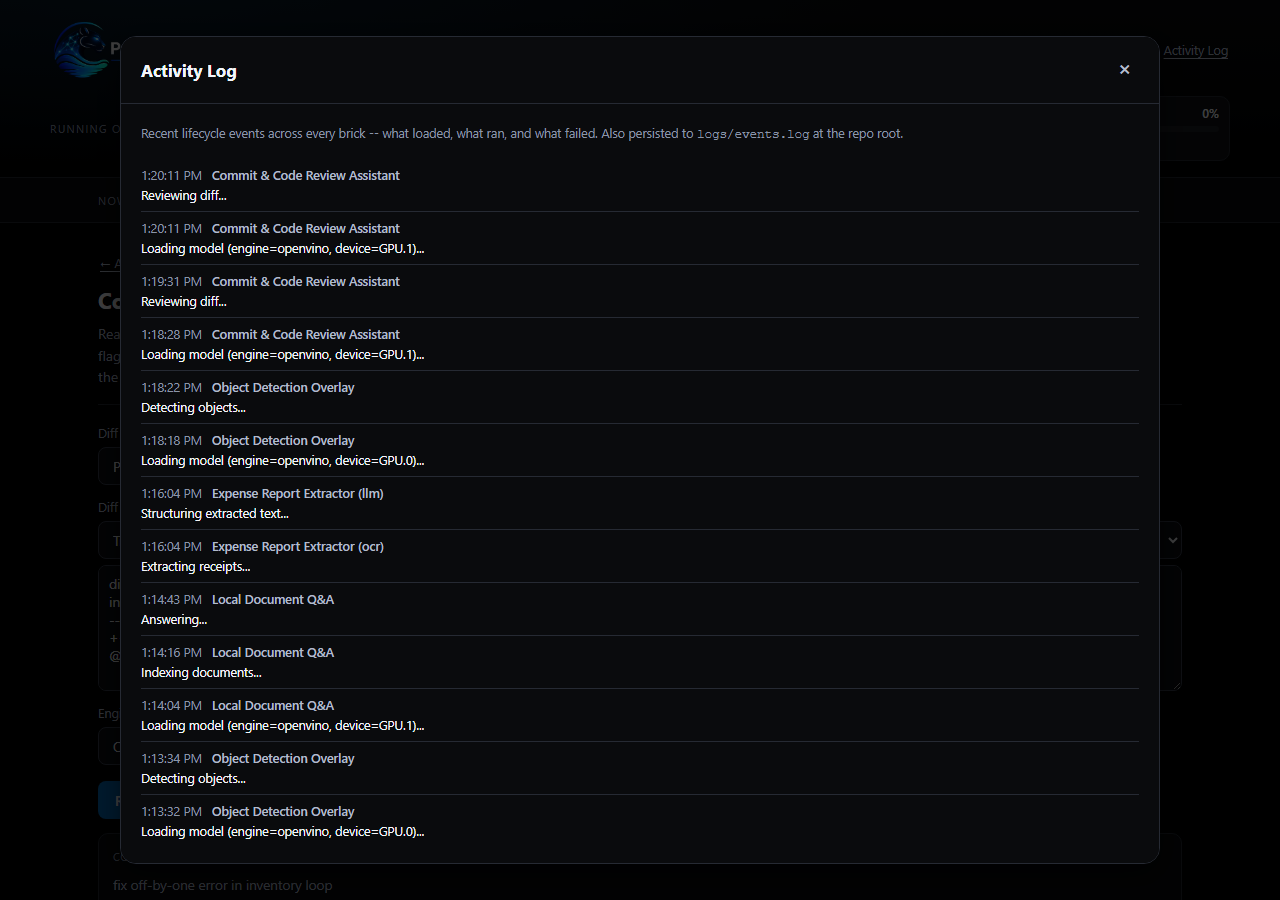
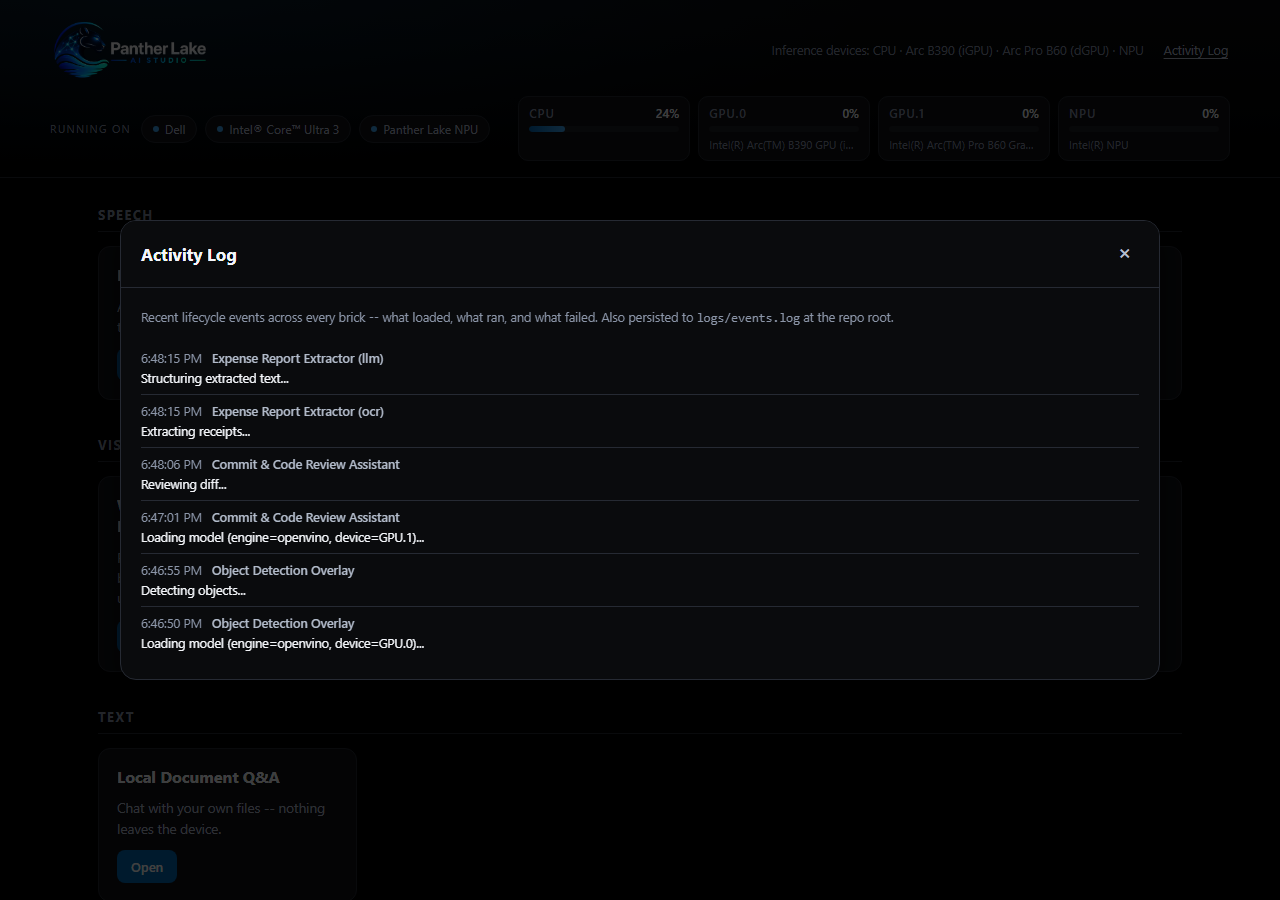
Reshape the README around the current UI, with fresh screenshots
The README still described the launcher as it was before the panel
rewrite, and its screenshots predated most of today. Rebuilt around what
the app actually is now.

Install got the most attention, since a colleague had trouble reproducing
it: start_launcher.bat -- which has been in the repo the whole time and
was never mentioned -- is now the double-click path, and a collapsible
block explains what `--extra openvino` actually does, that a later plain
`uv sync` silently removes it again, that models download on first use
(~100 MB to ~15 GB) rather than at install, and that the suite runs fine
with no Intel accelerator at all.

New "If something goes wrong" section covering the three things that have
actually bitten us: the port-already-in-use error when a second launcher
is started, a first run that looks stuck but is downloading, and a tab
held across an update.

Screenshots recaptured against the current build: the home grid with the
Now running strip, two demos running at once on both GPUs, the Activity
Log, and a new one of expense-extract with OCR on the CPU and the LLM on
GPU.1 -- both gauges lit and labelled by stage, next to three receipts it
just structured. That last one shows the concurrency claim rather than
asserting it, so the demo tables now say "two chips, at once" and point at
it. The old code-review screenshot is dropped; nothing referenced it any
more.

Also documents what today's debugging turned up: the two OpenVINO
[…]

diff --git a/README.md b/README.md
@@ -8,6 +8,7 @@
   <a href="https://docs.openvino.ai/"><img src="https://img.shields.io/badge/runtime-OpenVINO-8A2BE2" alt="OpenVINO" /></a>
   <img src="https://img.shields.io/badge/cloud%20calls-zero-4ade80" alt="Cloud calls: zero" />
   <img src="https://img.shields.io/badge/platform-Windows-0078D6" alt="Platform: Windows" />
+  <a href="https://github.com/Arnaud-Intel/ptl-ai-studio/actions/workflows/test.yml"><img src="https://github.com/Arnaud-Intel/ptl-ai-studio/actions/workflows/test.yml/badge.svg" alt="Tests" /></a>
 </p>
 
 **A local AI Studio for Intel Panther Lake -- thirteen on-device AI demos,
@@ -15,20 +16,20 @@ one launcher, zero cloud calls.**
 
 Speech translation. A voice assistant that talks back in your own voice.
 Live meeting notes. Object detection. Receipt-to-spreadsheet automation
-that runs your NPU and GPU *at the same time*. Every demo here runs
-entirely on the machine in front of you -- no API key, no network call,
-no data that leaves the device -- and every one of them can point
-directly at your Intel CPU, integrated GPU, or NPU and show you, on a
-live gauge, exactly which chip is doing the work.
+that runs your CPU and GPU *at the same time*. Every demo here runs
+entirely on the machine in front of you -- no API key, no network call, no
+data that leaves the device -- and every one can be pointed at your Intel
+CPU, integrated GPU, or NPU and show you, on a live gauge, exactly which
+chip is doing the work.
 
 This isn't a slide deck about on-device AI. It's thirteen working
 applications that prove it.
 
-## See it in 60 seconds
+## Get it running
 
-Only real prerequisite is [`uv`](https://docs.astral.sh/uv/getting-started/installation/)
-itself -- it fetches a compatible Python automatically, no separate
-Python install needed:
+The only real prerequisite is [`uv`](https://docs.astral.sh/uv/getting-started/installation/)
+-- it fetches a compatible Python itself, so there's no separate Python
+install to get right:
 
 ```bash
 git clone https://github.com/Arnaud-Intel/ptl-ai-studio.git
@@ -37,32 +38,61 @@ uv sync --extra openvino
 uv run panther-lake-launcher
 ```
 
-A local web UI opens at `http://127.0.0.1:8765`, demos grouped by the
-kind of work they do: open one and press Start -- it defaults to OpenVINO
-on your NPU/iGPU/GPU when available, portable CPU otherwise -- and the
-status line tells you what's actually happening (downloading a model the
-first time, loading it from disk after, or running), instead of a static
-"please wait." Then watch the CPU/GPU/NPU gauges in the header light up
-with *which demo is using which chip, right now*. If your machine has
-more than one GPU (say, an iGPU plus a discrete Arc card), each gets its
-own gauge, tracked independently. That live attribution is real, not
-decorative: it comes from the exact device string each demo handed the
-inference runtime, not a guess.
+That opens `http://127.0.0.1:8765` in your browser. On Windows you can
+also just **double-click `start_launcher.bat`** -- same thing, in a window
+you can leave open and close to stop the server.
+
+<details>
+<summary><b>What you need, and what the flags mean</b></summary>
+
+- **`uv sync`** installs every demo with its portable (CPU) engine.
+  **`uv sync --extra openvino`** additionally installs the OpenVINO engines
+  -- the ones that can target your iGPU and NPU. Use the `--extra` form on
+  Intel hardware; plain `uv sync` still gives you a fully working suite on
+  CPU. (`uv sync` makes the environment match exactly what you ask for, so
+  a later plain `uv sync` *removes* the OpenVINO extras again -- keep
+  passing `--extra openvino`.)
+- **Windows 11** for the full experience: the CPU/GPU/NPU gauges read
+  Windows' own performance counters, and "capture system audio" uses WASAPI
+  loopback. The demos themselves run elsewhere; the gauges just report
+  `N/A`.
+- **Models download on first use**, not at install: from ~100 MB for the
+  small speech models up to ~15 GB for the two coding demos. The status
+  line tells you when it's downloading rather than leaving you guessing,
+  and every run after that is fully offline.
+- **No Intel accelerator?** Everything still runs -- each demo falls back
+  to its portable CPU engine, and the OpenVINO option is disabled in the UI
+  with the reason shown.
+
+</details>
 
 <p align="center">
-  <img src="docs/screenshot-home.png" alt="Panther Lake AI Studio launcher: the header telemetry gauges, the Now running strip, and the demo cards grouped by category" width="820" />
+  <img src="docs/screenshot-home.png" alt="The launcher's home grid: header telemetry gauges for CPU, both GPUs and the NPU, a Now running strip, and demo cards grouped by category" width="820" />
 </p>
 
-Leaving a demo doesn't stop it. Start object detection on the iGPU, go
-back to the grid, open Document Q&A on the discrete GPU -- the "Now
-running" strip under the header keeps both in view wherever you are, each
-gauge names the demo driving it, and reopening a demo picks up exactly
-where it is (the video reattaches, an index built five minutes ago is
-still there). Two demos, two chips, one glance:
+## What it's like to use
+
+Open a demo and press Start. It defaults to OpenVINO on your NPU/iGPU/GPU
+when one is available and portable CPU otherwise, and the status line says
+what is *actually* happening -- downloading a model the first time, loading
+it from disk after, running, or stopping -- instead of a static "please
+wait".
+
+**Leaving a demo doesn't stop it.** Start object detection on the iGPU, go
+back to the grid, open the code review assistant on the discrete GPU: the
+"Now running" strip under the header keeps both in view wherever you are,
+each gauge names the demo driving it, and reopening a demo picks up exactly
+where it is -- the video reattaches, an index built five minutes ago is
+still there.
 
 <p align="center">
-  <img src="docs/screenshot-running.png" alt="Two demos running at once: the Now running strip lists Object Detection on GPU.0 and the Code Review Assistant on GPU.1, and both GPU gauges are lit and labeled" width="820" />
+  <img src="docs/screenshot-running.png" alt="Two demos at once: the Now running strip lists Object Detection Overlay running on GPU.0 and the Commit and Code Review Assistant loading on GPU.1, with both GPU gauges lit and labelled" width="820" />
 </p>
+
+That attribution is real, not decorative: it comes from the exact device
+string each demo handed the inference runtime, not a guess. A demo left on
+`AUTO` lights no gauge at all rather than claim a chip it might not be
+using.
 
 ## The demo suite
 
@@ -81,8 +111,8 @@ still there). Two demos, two chips, one glance:
 | --- | --- | --- |
 | **Webcam Background Effects** | Real-time background blur or replacement, no video ever leaves the machine | CPU / NPU / GPU |
 | **Object Detection Overlay** | Live labeled bounding boxes over a webcam or screen feed | CPU / NPU / GPU |
-| **Screen / Image Text Extraction** | Pull text out of a screenshot or photo, with optional on-device translation | CPU / GPU |
-| **Smart City Monitor** | Count pedestrians/cars/bikes per minute across multiple video files -- each pinnable to its own chip | CPU / NPU / GPU **each**, at once |
+| **Screen / Image Text Extraction** | Pull text out of a screenshot or photo, with optional on-device translation | CPU / GPU † |
+| **Smart City Monitor** | Count pedestrians/cars/bikes per minute across several video files -- each pinnable to its own chip | CPU / NPU / GPU **each**, at once |
 
 ### Text
 
@@ -94,83 +124,87 @@ still there). Two demos, two chips, one glance:
 
 | Demo | What it does | Runs on |
 | --- | --- | --- |
-| **Expense Report Extractor** | Photograph a folder of receipts, get a structured CSV -- OCR and the LLM run *concurrently* on two different chips | GPU **+** NPU, at once |
-| **Local Screen Memory** | Continuously indexes your own screen so you can semantically search it later -- OCR and embedding run *concurrently*, the same way | GPU **+** NPU, at once |
-| **Commit & Code Review Assistant** | Turn a git diff into a commit message and review notes, entirely locally | CPU / GPU\* |
-| **HTML Creator** | Describe a page or point at a folder of documents, get one self-contained HTML file back | CPU / GPU\* |
+| **Expense Report Extractor** | Point it at a folder of receipts, get structured expense lines -- OCR and the LLM run *concurrently* on two different chips | two chips, at once |
+| **Local Screen Memory** | Continuously indexes your own screen so you can semantically search it later -- OCR and embedding run *concurrently*, the same way | two chips, at once |
+| **Commit & Code Review Assistant** | Turn a git diff into a commit message and review notes, entirely locally | CPU / GPU ‡ |
+| **HTML Creator** | Describe a page, or point at a folder of documents, and get one self-contained HTML file back | CPU / GPU ‡ |
 
-*Every "Runs on" cell is real, tested hardware routing -- not a spec
-sheet claim. `expense-extract` and `smart-recall` are the showcase: each
-runs OCR on one chip while a second model (an LLM, or an embedder) works
-on a *different* chip at the same time -- both gauges lit simultaneously,
-proof captured live from the telemetry API during testing, not claimed
-from a spec sheet. `smart-city-monitor` generalizes the same idea to N:
-pin each video feed to its own chip (say, one feed on the NPU, another on
-a GPU) and every one it's using lights up at once, correctly attributed
-per feed. \*These two ask for a 30B-parameter coding model on
-the OpenVINO engine (~15GB) -- too large for an iGPU's or NPU's memory
-budget, so that path needs a real **discrete** GPU with its own VRAM
-(flagged with an amber "Discrete GPU" tag in the launcher). The portable
-engine still runs everywhere, with a much smaller model.*
+Every "Runs on" cell is tested hardware routing, not a spec-sheet claim.
+
+† Screen / Image Text Extraction's OpenVINO engine is a 7B
+vision-language model. Its NPU compile fails on this hardware, so the NPU
+is offered but disabled with the reason shown, rather than left to fail
+with a compiler error -- see [`screen-ocr`'s README](bricks/screen-ocr/README.md).
+
+‡ These two ask for a 30B-parameter coding model on the OpenVINO engine
+(~15 GB) -- too large for an iGPU's or NPU's memory budget, so that path
+wants a real **discrete** GPU with its own VRAM (flagged with an amber
+"Discrete GPU" tag in the launcher). The portable engine still runs
+everywhere, with a much smaller model.
+
+### The concurrency showcase
+
+`expense-extract` and `smart-recall` are the ones to watch: each runs OCR
+on one chip while a second model -- an LLM, or an embedder -- works on a
+*different* chip at the same time, both gauges lit and labelled with the
+stage driving them. `smart-city-monitor` generalises the same idea to N:
+pin each video feed to its own chip and every one it's using lights up at
+once, correctly attributed per feed.
 
 <p align="center">
-  <img src="docs/screenshot-code-review.png" alt="Commit & Code Review Assistant showing a generated commit message and review notes, with the GPU.1 telemetry gauge lit up and labeled with the demo's name" width="820" />
+  <img src="docs/screenshot-expense-extract.png" alt="Expense Report Extractor: OCR on the CPU and the LLM on GPU.1, both gauges lit and labelled with their stage, and three receipts structured into vendor, date, amount and category" width="820" />
 </p>
 
-Every content-hungry demo also ships with a "Try a sample" picker --
-named example prompts, diffs, and questions, a fictional company's
-documents (`sample-data/`) for `doc-qa` and `html-creator`'s document
-mode, and three synthetic receipts for `expense-extract` -- so there's
-always something real to press Start on without hunting for your own
-files first.
+Every content-hungry demo ships with a "Try a sample" picker -- named
+example prompts, diffs and questions, a fictional company's documents
+(`sample-data/`) for `doc-qa` and `html-creator`'s document mode, and three
+synthetic receipts for `expense-extract` -- so there's always something
+real to press Start on without hunting for your own files first.
 
-Also on the roadmap and already visible as "Coming soon" cards in the
-launcher: an inbox triage & draft assistant, and live noise suppression
--- the suite is built to keep growing without touching what already
-ships.
+Also on the roadmap and already visible as "Coming soon" cards: an inbox
+triage & draft assistant, and live noise suppression.
 
 ## Why this is worth a look
 
 - **Genuine hardware routing, not a toggle that does nothing.** Every
   switchable-backend demo runs [OpenVINO](https://docs.openvino.ai/) for
-  the Intel path, because `faster-whisper`, PyTorch, and ONNX Runtime's
+  the Intel path, because `faster-whisper`, PyTorch and ONNX Runtime's
   default provider are CPU/CUDA-only -- they physically cannot target an
   NPU or iGPU. OpenVINO is what actually exposes `CPU` / `GPU` / `NPU` as
-  selectable devices on a chip like Panther Lake, which is the entire
-  point of demonstrating *local* AI *on this hardware*, not just on a
-  laptop.
+  selectable devices on a chip like Panther Lake, which is the whole point
+  of demonstrating *local* AI *on this hardware*.
 - **Composable, not copy-pasted.** Thirteen demos, and the newest ones
-  barely add code: `meeting-notes` has no transcriber or LLM of its own
-  -- it composes `live-translation` and `doc-qa` directly.
-  `code-review-assist` and `html-creator` add zero new model code either,
-  each composing `doc-qa`'s LLM for a different task. `smart-city-monitor`
-  has no detection model of its own either -- it composes
-  `object-detection`'s, adding only tracking, counting, and the ability to
-  run several feeds at once. `voice-assistant` composes three bricks and
-  adds exactly one new model (wake-word detection). Shared capture, VAD,
-  and device-discovery code lives in one `core` package every brick
-  depends on.
-- **Verified against real hardware, not assumed.** This suite was built
-  and tested against an actual Intel NPU and Arc GPU, end to end, down to
-  finding (and routing around) a real OpenVINO NPU compiler limitation on
-  a 7B vision-language model -- documented, not hidden, in
-  [`screen-ocr`'s README](bricks/screen-ocr/README.md).
-- **Know what's happening, not just that it's "loading."** First-time
-  model loads can take a minute or more, so the launcher tracks each
-  demo's real lifecycle -- downloading, loading, running, or error -- and
-  keeps a persisted Activity Log of what happened, reviewable from the
-  header at any time.
+  barely add code: `meeting-notes` has no transcriber or LLM of its own --
+  it composes `live-translation` and `doc-qa` directly.
+  `code-review-assist` and `html-creator` add no model code either, each
+  composing `doc-qa`'s LLM for a different task. `smart-city-monitor`
+  composes `object-detection`'s detector, adding only tracking, counting
+  and multi-feed. `voice-assistant` composes three bricks and adds exactly
+  one new model (wake-word detection). Shared capture, voice-activity
+  detection, device discovery and model resolution live in one `core`
+  package every brick depends on.
+- **Verified against real hardware, not assumed.** Built and tested
+  against an actual Intel NPU and Arc GPUs, end to end -- down to finding,
+  and routing around, two real OpenVINO limitations: a 7B vision-language
+  model that won't compile for the NPU, and the same model failing under
+  the `AUTO` device. Both documented rather than hidden.
+- **Honest about what it's doing.** First-time model loads can take
+  minutes, so the launcher tracks each demo's real lifecycle --
+  downloading, loading, running, stopping, or failed -- and keeps a
+  persisted Activity Log of what happened, reachable from the header at any
+  time. Press Stop on a demo that's mid-inference and it says "Stopping"
+  until it genuinely has, rather than claiming to still be working.
 - **One launcher, no build step.** The front end is vanilla HTML/CSS/JS
-  served straight from FastAPI -- no npm install, no bundler, just
-  `uv run panther-lake-launcher`.
+  served straight from FastAPI -- no npm install, no bundler.
 
 <p align="center">
-  <img src="docs/screenshot-activity-log.png" alt="Activity Log modal listing recent lifecycle events per demo, e.g. Loading model then Reviewing diff" width="820" />
+  <img src="docs/screenshot-activity-log.png" alt="The Activity Log listing recent lifecycle events per demo, each with a timestamp, the demo name and what happened" width="820" />
 </p>
 
 ## Command line, if you'd rather skip the UI
 
-Every demo also installs its own console script:
+Every demo installs its own console script, and they take the same
+engine/device choices as the UI:
 
 ```bash
 uv run live-translate --source system --engine openvino --compute-device NPU
@@ -178,22 +212,37 @@ uv run voice-assistant --engine openvino --compute-device NPU
 uv run voice-clone-studio --record 15 --text "Hello from my own cloned voice."
 uv run expense-extract ./receipts --ocr-engine openvino --ocr-device GPU --llm-engine openvino --llm-device NPU
 uv run smart-recall record --ocr-engine openvino --ocr-device GPU --embed-engine openvino --embed-device NPU
-uv run code-review-assist --folder . --engine openvino --compute-device GPU
-uv run html-creator --prompt "a landing page for a small coffee shop" --engine openvino --compute-device GPU
+uv run code-review-assist --folder . --engine openvino
+uv run html-creator --prompt "a landing page for a small coffee shop" --engine openvino
 uv run smart-city-monitor --source "intersection.mp4|GPU.0" --source "crosswalk.mp4|NPU" --engine openvino
 ```
 
-See each brick's own README for its full set of options.
+Every one of them takes `--list-devices` to show what this machine can
+actually target, and `--help` for the rest. See each brick's own README
+for the detail.
+
+## If something goes wrong
+
+- **"only one usage of each socket address"** on startup -- a launcher is
+  already running on port 8765. Close it, or start this one somewhere else
+  with `uv run panther-lake-launcher --port 8766`.
+- **A demo seems stuck on its first run** -- it's almost certainly
+  downloading a model. The status line says so explicitly, and the
+  **Activity Log** in the header has the history, including anything that
+  failed and why.
+- **The UI looks wrong after an update** -- reload the page. Assets are
+  cache-busted per build, but a tab left open across an update can hold an
+  older copy.
 
 ## Under the hood
 
 One [`uv` workspace](https://docs.astral.sh/uv/concepts/projects/workspaces/),
-one shared `.venv`, every brick and the launcher installed together so
-they can depend on each other freely. Full layout, the pattern for adding
-a new brick, the test suite (`uv run pytest` -- pure logic and the
-launcher's API contract, run on every push), and the auto-versioning
-mechanism (the badge at the top of this page updates itself on every
-merge to `main`) are in [CONTRIBUTING.md](CONTRIBUTING.md).
+one shared `.venv`, every brick and the launcher installed together so they
+can depend on each other freely. The full layout, the pattern for adding a
+brick, the test suite (`uv run pytest` -- pure logic plus the launcher's
+API contract, run on every push) and the auto-versioning mechanism (the
+badge at the top updates itself on every merge to `main`) are in
+[CONTRIBUTING.md](CONTRIBUTING.md).
 
 ---
 
